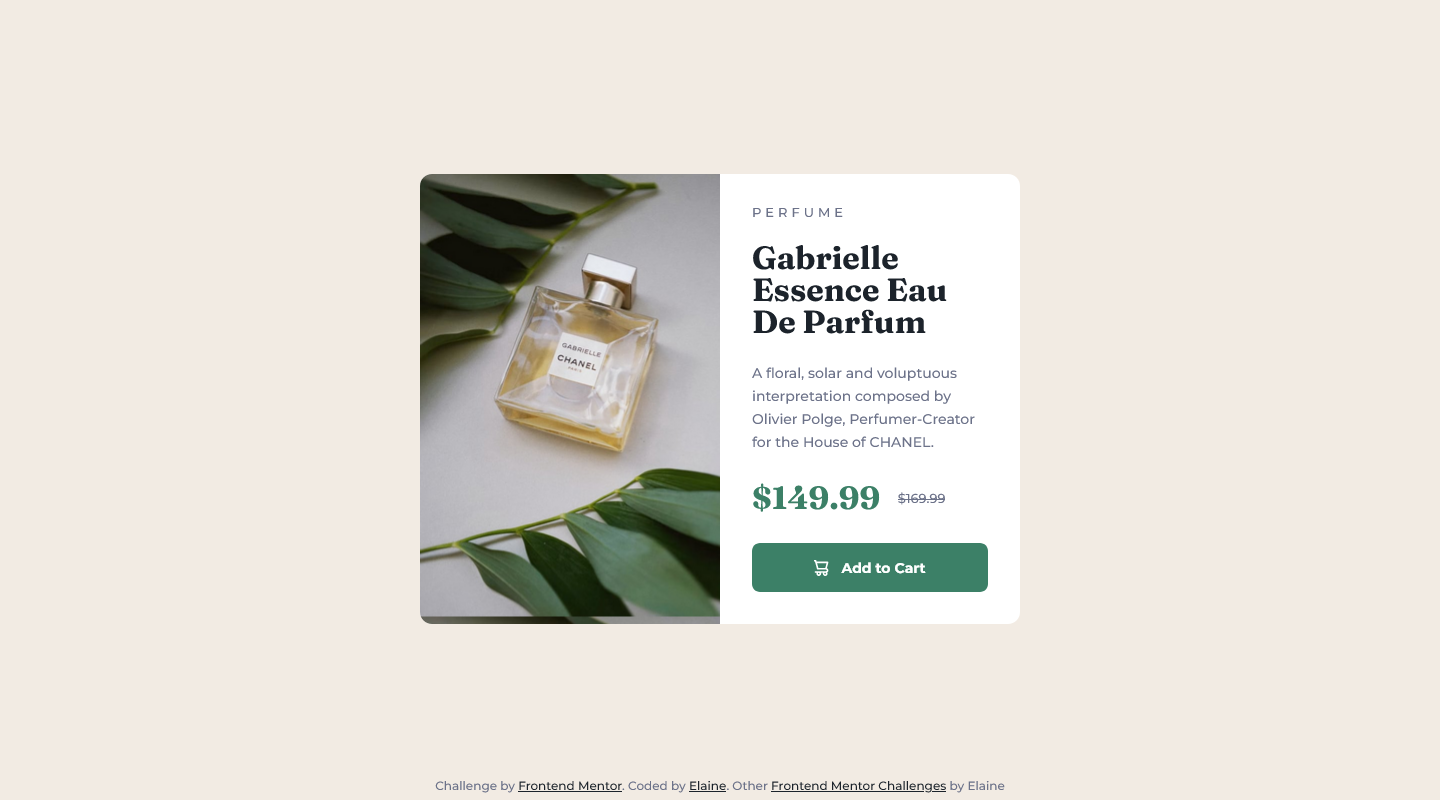
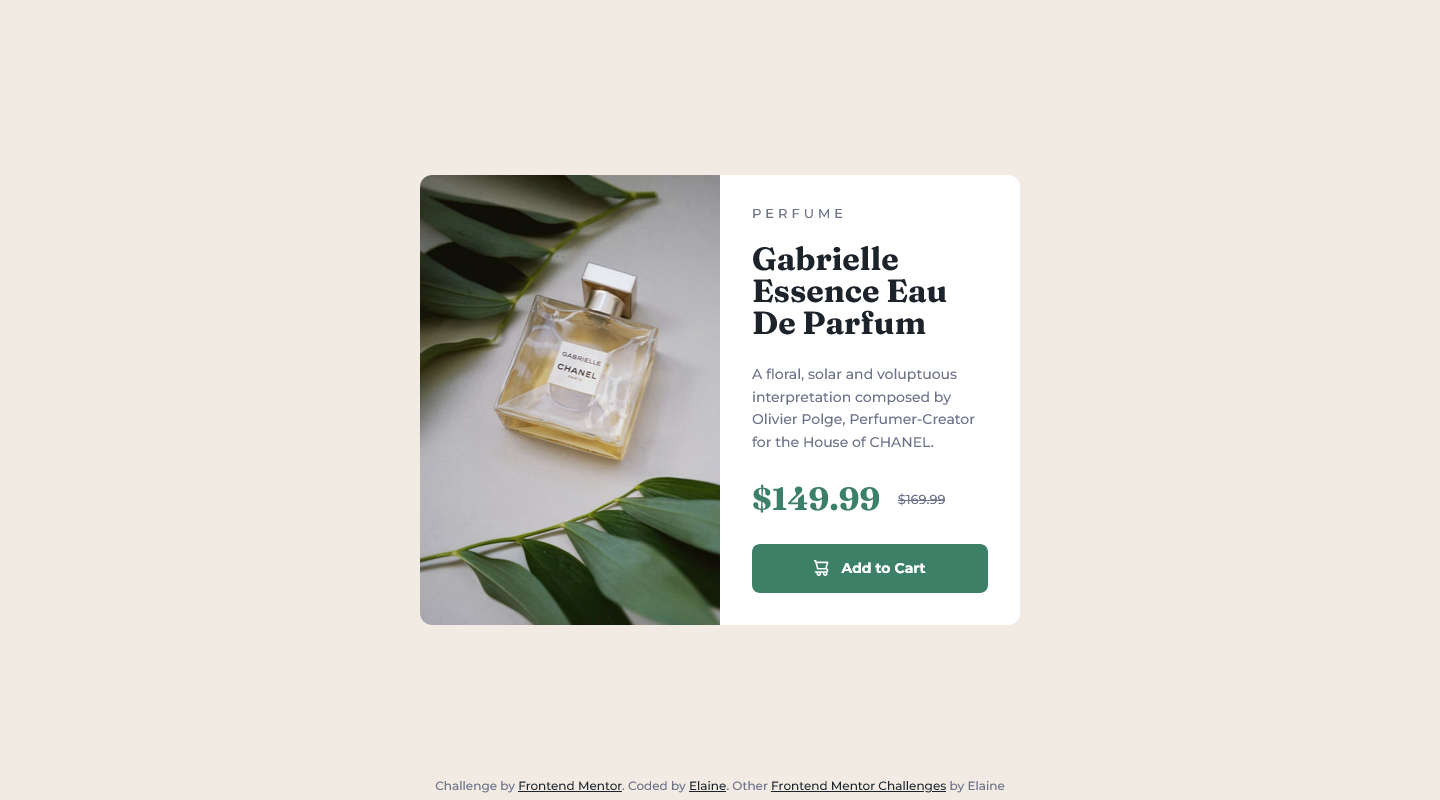
Fix CSS

diff --git a/productpreviewcardcomponent/style.scss b/productpreviewcardcomponent/style.scss
@@ -6,6 +6,7 @@
   --clr-white: hsl(0, 0%, 100%);
   --clr-neutral-400: hsl(228, 12%, 48%);
   --clr-neutral-700: hsl(212, 21%, 14%);
+  --clr-blend: hsla(212, 21%, 14%, 0.2);
   --fs-100: 0.75rem;
   --fs-200: 0.8125rem;
   --fs-300: 0.875rem; // 14pt
@@ -251,6 +252,8 @@ body {
     background-repeat: no-repeat;
     height: 15rem;
     border-radius: 0.75em 0.75em 0 0;
+    // background-color: var(--clr-blend);
+    // background-blend-mode: multiply;
   }
   &__content {
     padding: 1.5rem;
@@ -316,14 +319,15 @@ body {
 }
 
 @media (min-width: 750px) {
-  .card {
+  .component {
     padding-top: 0.1rem;
+  }
+  .card {
     max-width: initial;
     width: 37.5rem;
     &__image {
       background-image: url('./images/image-product-desktop.jpg');
       background-size: cover;
-    
       height: 100%;
       border-radius: 0.75em 0 0 0.75em;
     }

diff --git a/productpreviewcardcomponent/style.css b/productpreviewcardcomponent/style.css
@@ -5,6 +5,7 @@
   --clr-white: hsl(0, 0%, 100%);
   --clr-neutral-400: hsl(228, 12%, 48%);
   --clr-neutral-700: hsl(212, 21%, 14%);
+  --clr-blend: hsla(212, 21%, 14%, 0.2);
   --fs-100: 0.75rem;
   --fs-200: 0.8125rem;
   --fs-300: 0.875rem;
@@ -356,8 +357,10 @@ body {
 }
 
 @media (min-width: 750px) {
-  .card {
+  .component {
     padding-top: 0.1rem;
+  }
+  .card {
     max-width: initial;
     width: 37.5rem;
   }
